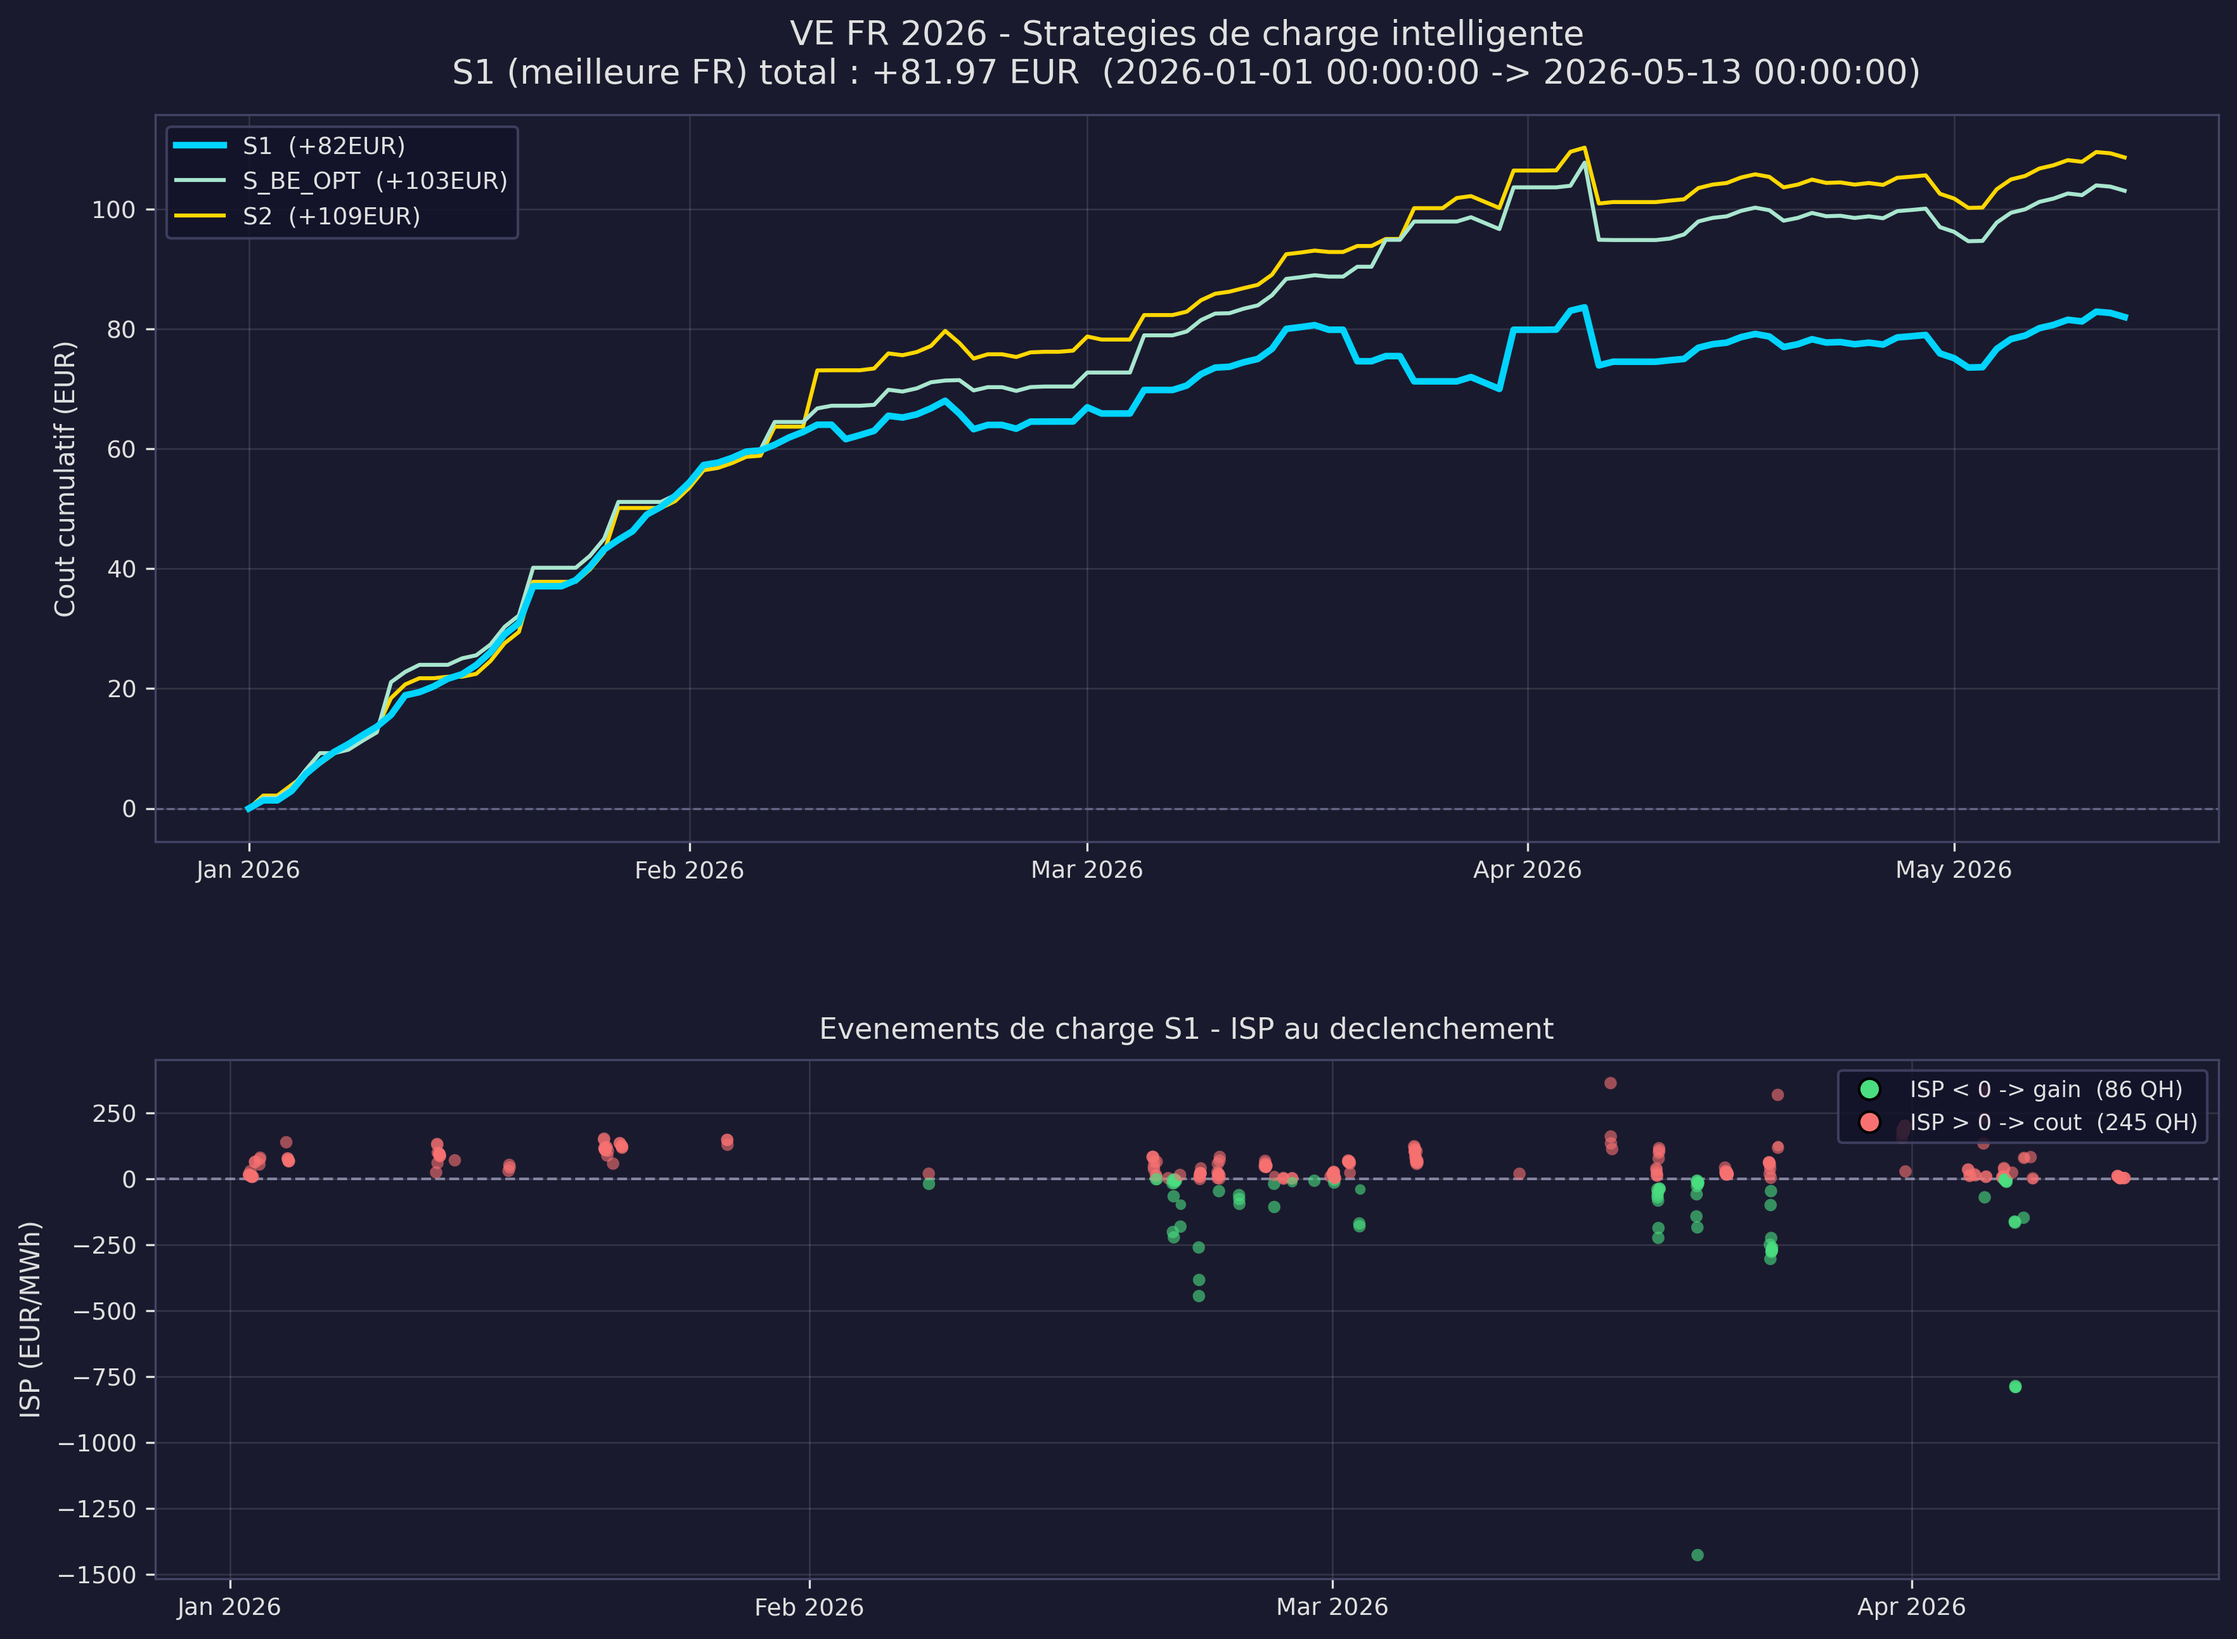
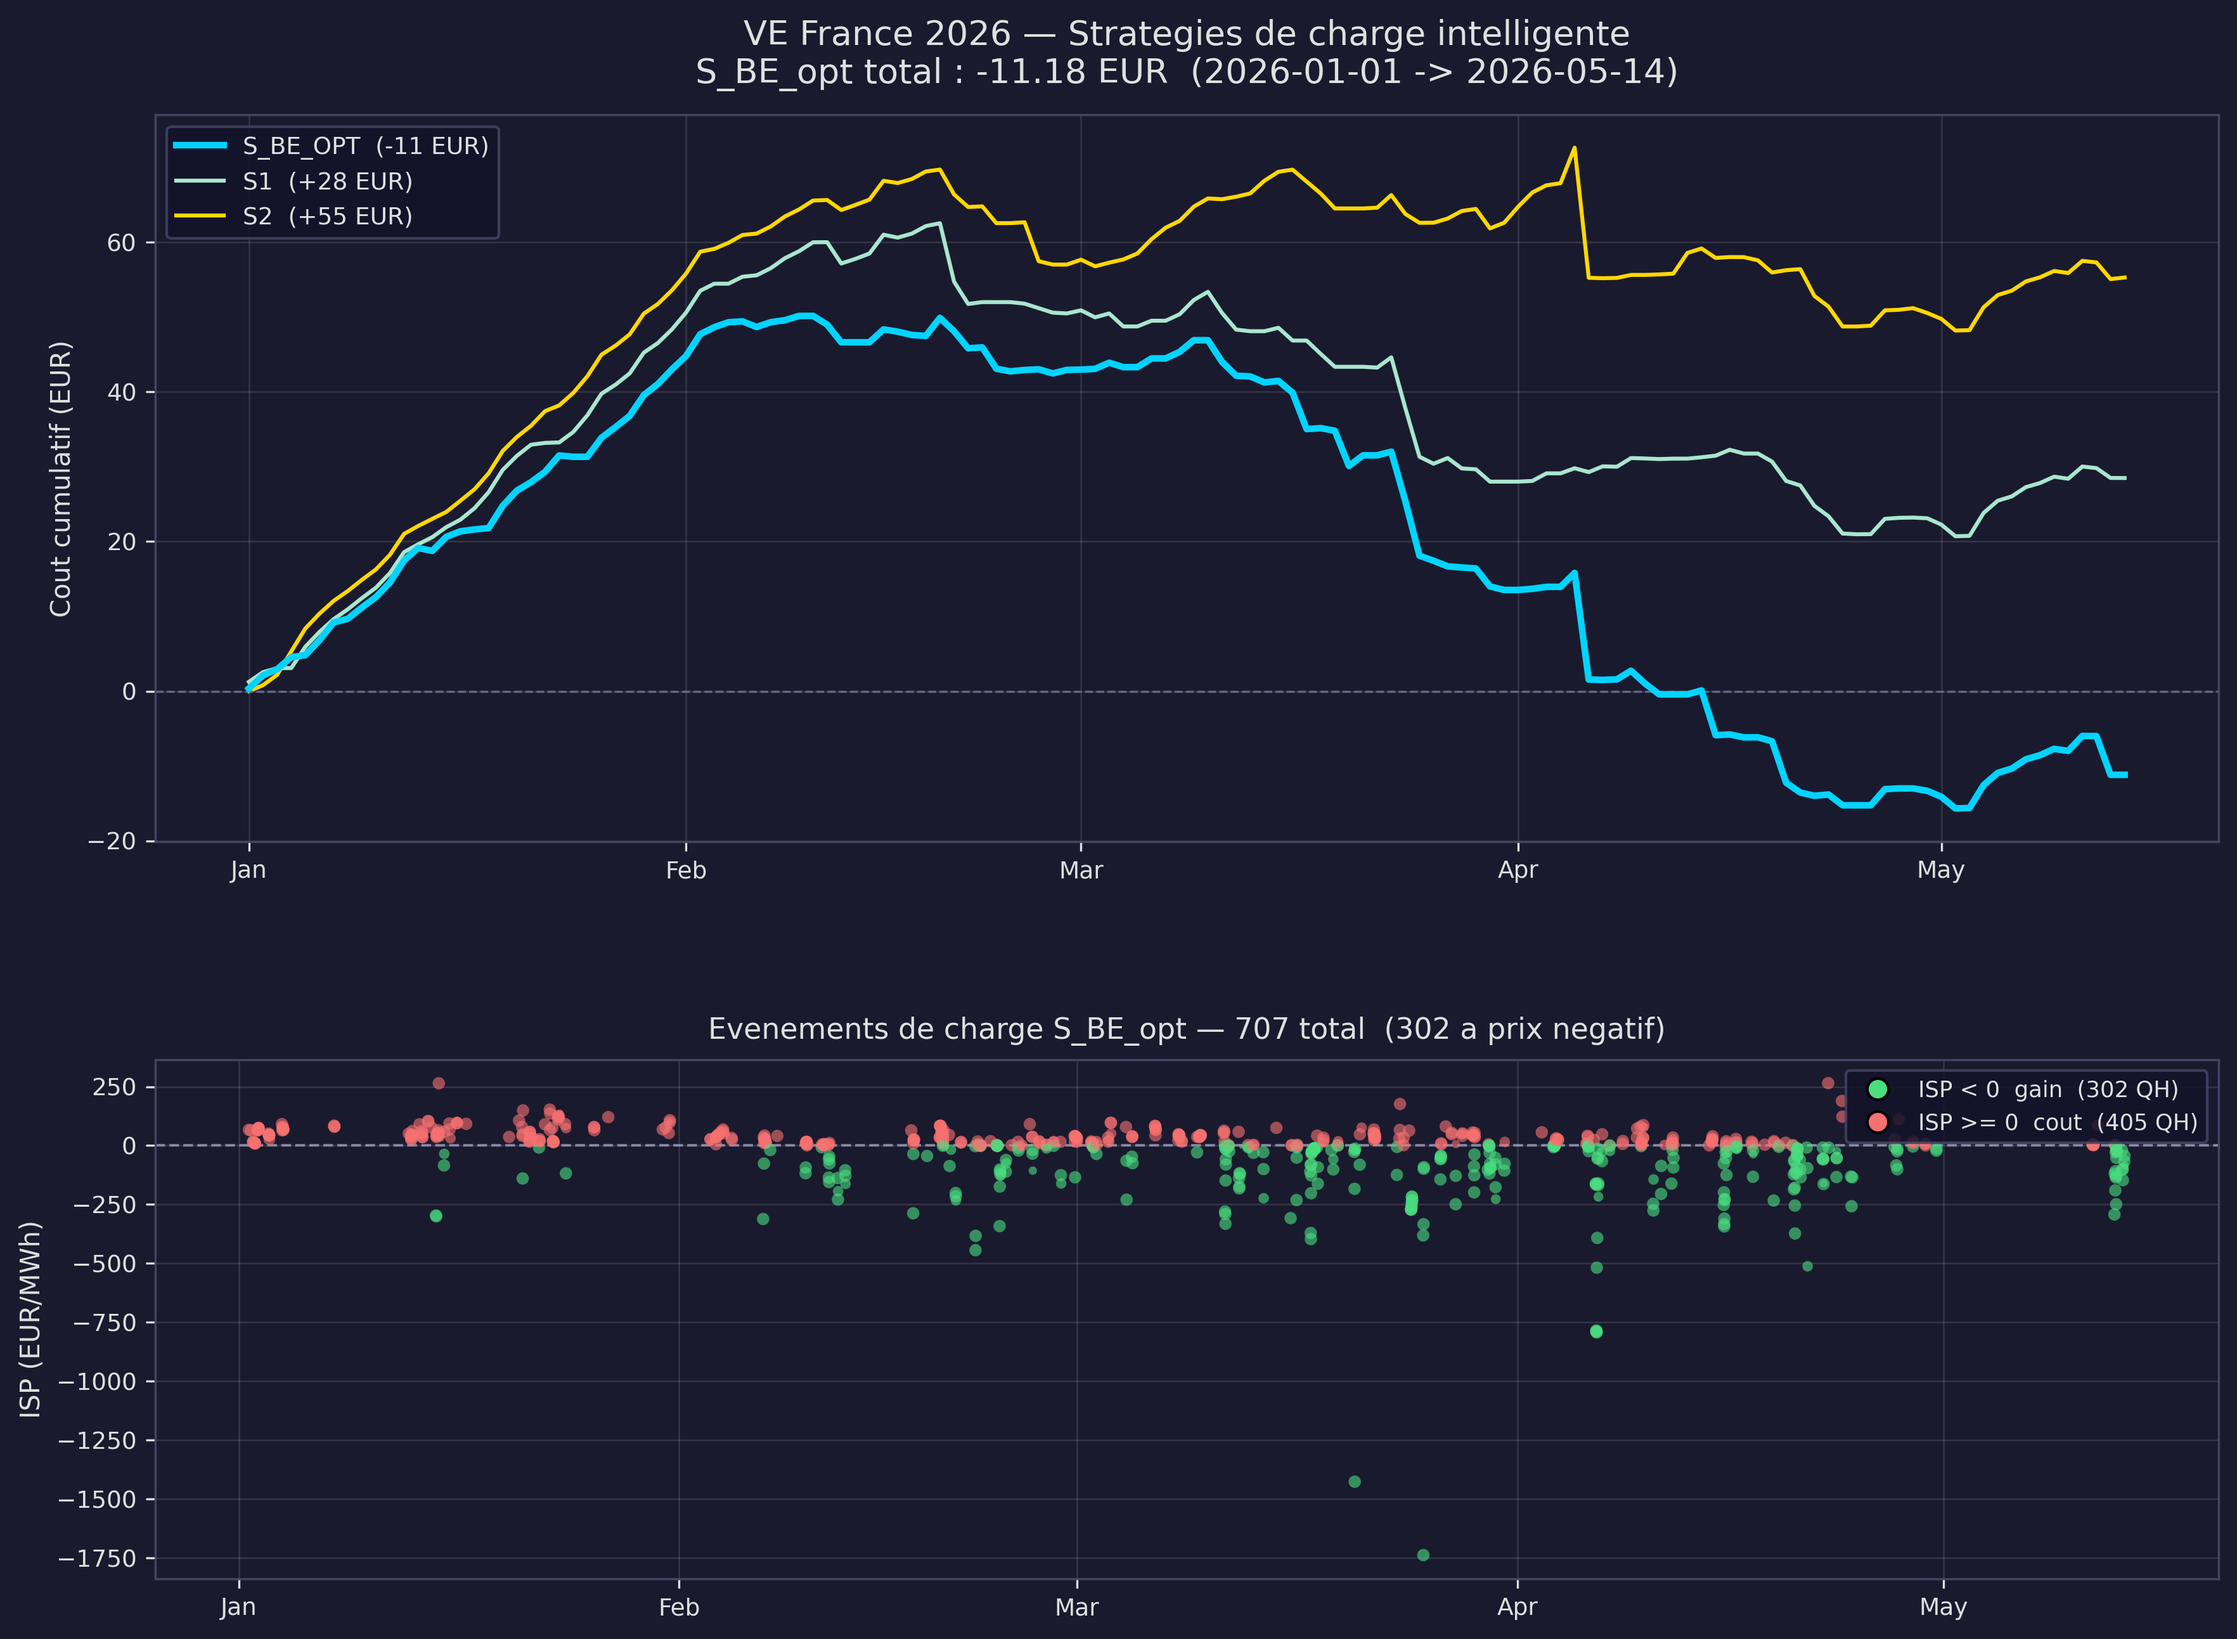
feat: visualizations VE BE/FR 2026 (2-panel dark charts, resultats finaux)
ve_be_2026.png : cumulatif par strategie + scatter ISP smart charge (S_BE_opt = +86.86 EUR)
ve_fr_2026.png : meme structure, reference S_BE_opt (-11.18 EUR)
visualize_ve_fr_2026.py : aligne sur S_BE_opt (etait S1), fix parsing pandas 1.5.x

diff --git a/visualize_ve_fr_2026.py b/visualize_ve_fr_2026.py
@@ -1,8 +1,8 @@
 #!/usr/bin/env python3
 """
 Visualisation VE FR 2026 — 2 panneaux
-  Haut  : coûts cumulatifs jour par jour par stratégie (S1, S2, S_BE_OPT)
-  Bas   : nuage de points des événements de charge S1 (meilleure stratégie FR)
+  Haut  : couts cumulatifs jour par jour par strategie (S1, S2, S_BE_OPT)
+  Bas   : nuage de points des evenements de charge S_BE_OPT
 Sortie  : outputs/reports/ve_fr_2026.png (300 DPI)
 """
 
@@ -25,10 +25,11 @@ BG       = "#1a1a2e"
 GRID_COL = "#ffffff"
 TEXT_COL = "#e0e0e0"
 
+STRATS = ["S_BE_OPT", "S1", "S2"]
 STRAT_STYLES = {
-    "S1":        {"color": "#00d4ff", "lw": 2.5, "zorder": 5},
-    "S_BE_OPT":  {"color": "#a8e6cf", "lw": 1.5, "zorder": 3},
-    "S2":        {"color": "#ffd700", "lw": 1.5, "zorder": 2},
+    "S_BE_OPT": {"color": "#00d4ff", "lw": 2.5, "zorder": 5},
+    "S1":       {"color": "#a8e6cf", "lw": 1.5, "zorder": 3},
+    "S2":       {"color": "#ffd700", "lw": 1.5, "zorder": 2},
 }
 
 df = pd.read_csv(CSV, parse_dates=["timestamp", "date"])
@@ -37,13 +38,11 @@ daily = (df.groupby(["strategy", "date"])["cost_eur"]
            .sum().reset_index().sort_values("date"))
 daily["cumul"] = daily.groupby("strategy")["cost_eur"].cumsum()
 
-# S1 est la meilleure stratégie FR (ISP FR moins négatifs)
-best = "S1"
-best_total = daily[daily["strategy"] == best]["cost_eur"].sum()
-date_min = df["date"].min()
-date_max = df["date"].max()
+opt_total = daily[daily["strategy"] == "S_BE_OPT"]["cost_eur"].sum()
+date_min  = df["date"].min().strftime("%Y-%m-%d")
+date_max  = df["date"].max().strftime("%Y-%m-%d")
 
-events = df[(df["strategy"] == best) & (df["smart_kwh"] > 0)].copy()
+events = df[(df["strategy"] == "S_BE_OPT") & (df["smart_kwh"] > 0)].copy()
 events = events.dropna(subset=["isp"])
 events["size_pt"] = (events["smart_kwh"].clip(lower=0.1) * 8).clip(upper=80)
 events["color"]   = np.where(events["isp"] < 0, "#4ade80", "#f87171")
@@ -59,25 +58,24 @@ for ax in (ax1, ax2):
     ax.xaxis.label.set_color(TEXT_COL)
     ax.yaxis.label.set_color(TEXT_COL)
 
-for strat in ["S1", "S_BE_OPT", "S2"]:
+for strat in STRATS:
     sub = daily[daily["strategy"] == strat]
     if sub.empty:
         continue
-    st = STRAT_STYLES.get(strat, {"color": "#888888", "lw": 1.2})
+    st = STRAT_STYLES[strat]
     ax1.plot(sub["date"], sub["cumul"],
-             color=st["color"], lw=st.get("lw", 1.5),
-             ls=st.get("ls", "-"), zorder=st.get("zorder", 1),
-             label=f"{strat}  ({sub['cost_eur'].sum():+.0f}EUR)")
+             color=st["color"], lw=st["lw"], zorder=st["zorder"],
+             label=f"{strat}  ({sub['cost_eur'].sum():+.0f} EUR)")
 
+sign = "+" if opt_total >= 0 else ""
 ax1.axhline(0, color="#666688", lw=0.8, ls="--")
 ax1.set_ylabel("Cout cumulatif (EUR)", color=TEXT_COL, fontsize=10)
 ax1.set_title(
-    f"VE FR 2026 - Strategies de charge intelligente\n"
-    f"S1 (meilleure FR) total : {best_total:+.2f} EUR  "
-    f"({date_min} -> {date_max})",
+    f"VE France 2026 — Strategies de charge intelligente\n"
+    f"S_BE_opt total : {sign}{opt_total:.2f} EUR  ({date_min} -> {date_max})",
     color=TEXT_COL, fontsize=13, pad=12
 )
-ax1.xaxis.set_major_formatter(mdates.DateFormatter("%b %Y"))
+ax1.xaxis.set_major_formatter(mdates.DateFormatter("%b"))
 ax1.xaxis.set_major_locator(mdates.MonthLocator())
 ax1.grid(True, color=GRID_COL, alpha=0.12, lw=0.6)
 ax1.legend(loc="upper left", fontsize=9,
@@ -89,23 +87,25 @@ ax2.scatter(events["timestamp"], events["isp"],
             alpha=0.6, linewidths=0, zorder=3)
 ax2.axhline(0, color="#aaaacc", lw=1.0, ls="--", alpha=0.7)
 ax2.set_ylabel("ISP (EUR/MWh)", color=TEXT_COL, fontsize=10)
-ax2.set_title("Evenements de charge S1 - ISP au declenchement",
-              color=TEXT_COL, fontsize=11, pad=8)
-ax2.xaxis.set_major_formatter(mdates.DateFormatter("%b %Y"))
-ax2.xaxis.set_major_locator(mdates.MonthLocator())
-ax2.grid(True, color=GRID_COL, alpha=0.12, lw=0.6)
 
 n_gain = int((events["isp"] < 0).sum())
 n_cost = int((events["isp"] >= 0).sum())
+ax2.set_title(
+    f"Evenements de charge S_BE_opt — {len(events)} total  ({n_gain} a prix negatif)",
+    color=TEXT_COL, fontsize=11, pad=8
+)
+ax2.xaxis.set_major_formatter(mdates.DateFormatter("%b"))
+ax2.xaxis.set_major_locator(mdates.MonthLocator())
+ax2.grid(True, color=GRID_COL, alpha=0.12, lw=0.6)
 ax2.legend(handles=[
     Line2D([0],[0], marker="o", color="none", markerfacecolor="#4ade80",
-           markersize=8, label=f"ISP < 0 -> gain  ({n_gain} QH)"),
+           markersize=8, label=f"ISP < 0  gain  ({n_gain} QH)"),
     Line2D([0],[0], marker="o", color="none", markerfacecolor="#f87171",
-           markersize=8, label=f"ISP > 0 -> cout  ({n_cost} QH)"),
+           markersize=8, label=f"ISP >= 0  cout  ({n_cost} QH)"),
 ], loc="upper right", fontsize=8.5,
    facecolor="#12122a", edgecolor="#444466",
    labelcolor=TEXT_COL, framealpha=0.85)
 
 fig.savefig(OUT_PNG, dpi=300, bbox_inches="tight", facecolor=BG)
-print(f"Saved: {OUT_PNG}")
+print(f"Saved: {OUT_PNG}  (S_BE_opt = {sign}{opt_total:.2f} EUR)")
 plt.close(fig)
